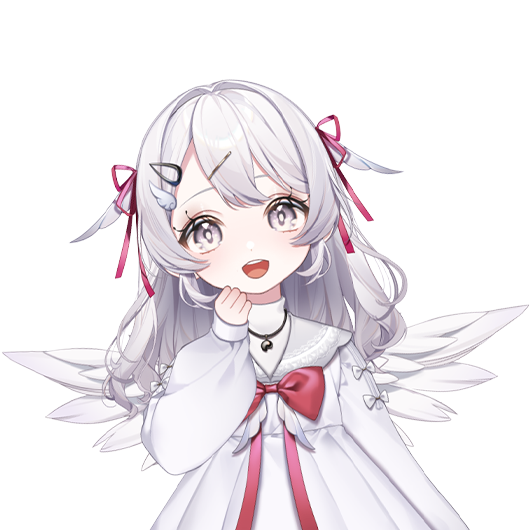
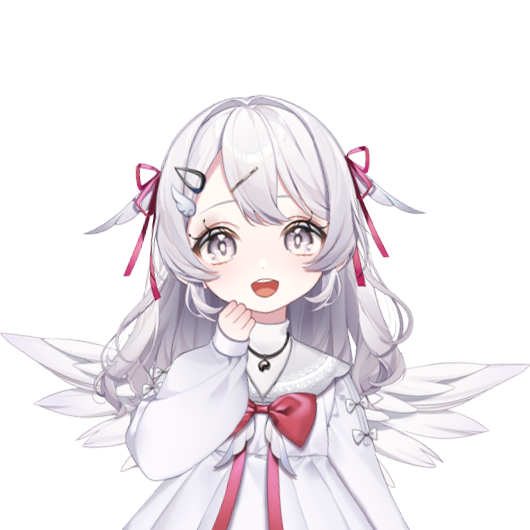
feat:圖片選擇頁RWD 圖片大小處理 幼妲圖片調整 BaseButton調整 BaseCard調整 新增title-font-size變數

Changed region(s): [[0.0, 0.1509, 1.0, 1.0], [0.9057, 0.5736, 0.9962, 0.634]]

diff --git a/src/views/ImagesSelection.vue b/src/views/ImagesSelection.vue
@@ -139,13 +139,13 @@ const getImgUrl = function (img) {
       </h2>
       <div
         class="invalid__text"
-        :class="isValid ? 'hidden':''"
+        :class="isValid ? 'hidden' : ''"
       >
         提示：需選擇一張立繪
       </div>
       <div
         class="images"
-        :class="{ invalid__border: !isValid , invalid__border__space:isValid }"
+        :class="{ invalid__border: !isValid, invalid__border__space: isValid }"
       >
         <div
           v-for="img in imagesData"
@@ -162,51 +162,62 @@ const getImgUrl = function (img) {
     </BaseCard>
     <div class="btn__group">
       <BaseButton @click="toQuotationInput">
+        <span class="material-symbols-outlined">
+          arrow_back
+        </span>
         上一步
       </BaseButton>
       <BaseButton @click="toSourceInput">
         下一步
+        <span class="material-symbols-outlined">
+          arrow_forward
+        </span>
       </BaseButton>
     </div>
   </main>
 </template>
 
 <style lang="scss" scoped>
+h2 {
+  font-size: var(--title-font-size);
+}
 
-.invalid__text{
+.invalid__text {
   font-size: 0.9rem;
-  color:red;
+  color: red;
   visibility: visible;
-  margin-top:-10px;
+  margin-top: -10px;
   margin-bottom: 10px;
 
   &.hidden {
     visibility: hidden;
   }
 }
+
 .images {
   display: flex;
   flex-wrap: wrap;
   justify-content: center;
   height: 100%;
 
-  &.invalid__border, &.invalid__border__space {
-      border: 2px dashed red;
-      border-radius: 2rem;
-      padding: 1rem 0;
-    }
+  &.invalid__border,
+  &.invalid__border__space {
+    border: 2px dashed red;
+    border-radius: 2rem;
+    padding: 1rem 0;
+  }
 
   &.invalid__border__space {
     border: 2px solid transparent;
   }
 
   div {
-    width: 12rem;
-    height: 12rem;
+    width: 7rem;
+    height: 7rem;
+    margin: 0.2rem;
     border: 3px solid white;
     border-radius: 1rem;
     background-color: rgb(122, 122, 122);
-    margin: 0.5rem;
     transform: scale(1.0);
     transition: transform 0.4s ease-in-out;
     overflow: hidden;
@@ -241,6 +252,46 @@ const getImgUrl = function (img) {
 
 .btn__group {
   display: flex;
+  flex-direction: column-reverse;
+  /* justify-content: space-between; */
+}
+
+@media (min-width: 576px) {
+  h2 {
+    font-size: var(--title-font-size-pad);
+  }
+
+  .images {
+    div {
+      width: 9rem;
+      height: 9rem;
+      margin: 0.4rem;
+    }
+  }
+
+  .btn__group {
+  display: flex;
   justify-content: space-between;
+  }
+}
+
+@media (min-width: 768px) {
+  .images {
+    div {
+      width: 11rem;
+      height: 11rem;
+      margin: 0.5rem;
+    }
+  }
+}
+
+@media (min-width: 992px) {
+  .images {
+    div {
+      width: 12rem;
+      height: 12rem;
+      margin: 0.6rem;
+    }
+  }
 }
 </style>

diff --git a/src/components/BaseButton.vue b/src/components/BaseButton.vue
@@ -20,26 +20,26 @@ const props = defineProps({
 .btn {
   width: 100%;
   padding: 0.8rem 0;
-  border: 6px solid white;
+  border: 4px solid white;
   border-radius: 0.8rem;
   background-color: var(--primary-color);
   text-align: center;
   font-size: 1.4rem;
   font-weight: 700;
-  margin-top: 2rem;
+  margin-top: 1rem;
   box-sizing: border-box;
   display: flex;
   justify-content: center;
 
+  div {
+    display: flex;
+    align-items: center;
+    gap:0.5rem
+  }
+
   &:hover {
     cursor: pointer;
     background-color: aquamarine;
-  }
-}
-
-@media (min-width: 576px) {
-  .btn {
-    width: 10rem;
   }
 }
 
@@ -64,4 +64,13 @@ const props = defineProps({
     transform: rotate(360deg);
   }
 }
+
+@media (min-width: 576px) {
+  .btn {
+    margin-top: 2rem;
+    width: 10rem;
+    border: 6px solid white;
+  }
+}
+
 </style>

diff --git a/src/views/QuotationInput.vue b/src/views/QuotationInput.vue
@@ -189,6 +189,9 @@ const toImageSelection = () => {
       @click="toImageSelection"
     >
       下一步
+      <span class="material-symbols-outlined">
+        arrow_forward
+      </span>
     </BaseButton>
   </main>
 </template>
@@ -206,7 +209,7 @@ const toImageSelection = () => {
     }
 
     label[for=isTextarea] {
-      font-size: 1.1rem;
+      font-size: 1rem;
       font-weight: bold;
     }
   }
@@ -268,7 +271,7 @@ textarea {
 }
 
 h2 {
-  font-size: 1.2rem;
+  font-size: var(--title-font-size);
 }
 
 .invalid__text {
@@ -321,7 +324,7 @@ h2 {
   }
 
   h2 {
-    font-size: 1.5rem;
+    font-size: var(--title-font-size-pad);
   }
 
 }

diff --git a/src/components/BaseCard.vue b/src/components/BaseCard.vue
@@ -14,12 +14,15 @@
   min-height: 25rem;
   background-color: rgb(112, 201, 223);
   margin: 0 auto 0 auto;
-  padding: 3rem;
+  padding: 2rem 1.5rem;
   border-radius: 2rem;
   box-shadow: 3px 3px 3px rgb(0, 0, 0, 0.5);
 
-  @media (min-width: 992px) {
-
-  }
 }
+
+@media (min-width: 576px) {
+  .card {
+      padding: 2.5rem;
+    }
+  }
 </style>

diff --git a/src/App.vue b/src/App.vue
@@ -10,6 +10,8 @@
   --primary-color: rgb(251, 196, 57);
   --text-color: #373b3e;
   --sidebar-background-color: rgb(62, 62, 62);
+  --title-font-size: 1.2rem;
+  --title-font-size-pad: 1.5rem;
 }
 
 * {
